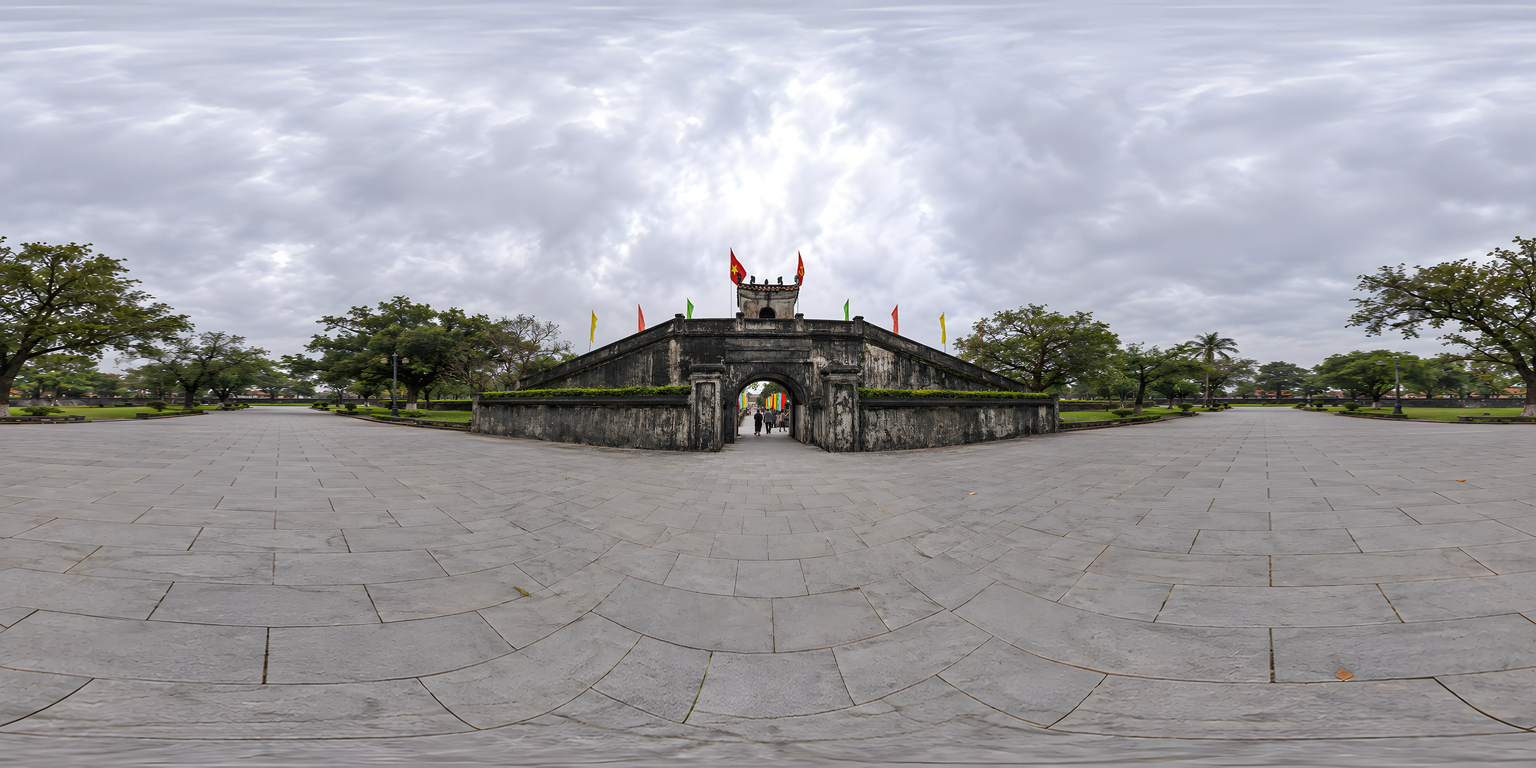
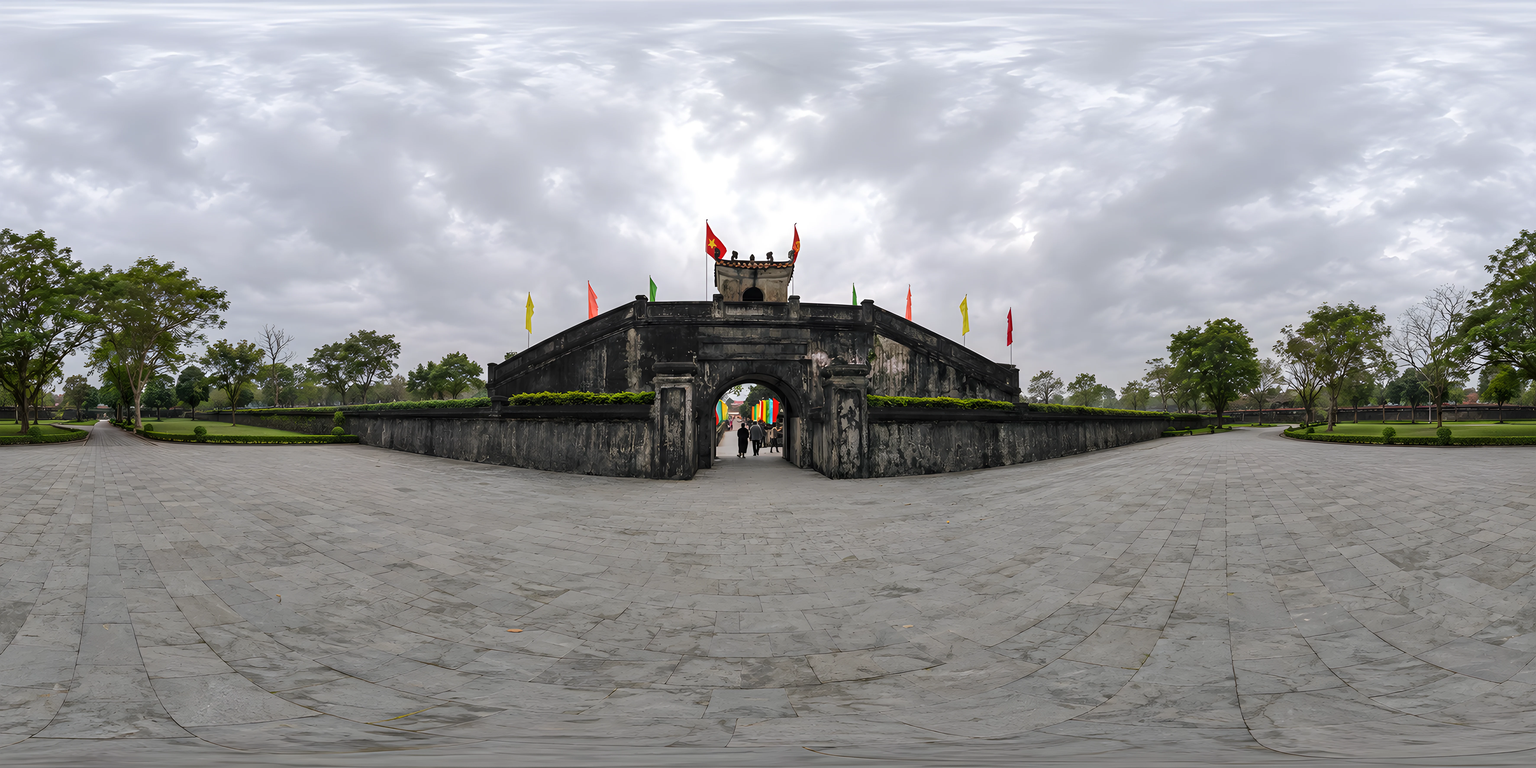
Restore previous present-day gate panorama

diff --git a/src/derived-scenes.ts b/src/derived-scenes.ts
@@ -1,8 +1,8 @@
 import { photographs, type TourScene } from './photographs';
 
 const specifications = [
-  { source: 'citadel-gate-2018', title: 'Cổng Thành cổ', pitch: 5 },
-  { source: 'citadel-wall-2018', title: 'Dọc hào Thành cổ', pitch: -12 },
+  { source: 'citadel-gate-2018', title: 'Cổng Thành cổ', pitch: 10, assetVersion: '20260925-restored' },
+  { source: 'citadel-wall-2018', title: 'Dọc hào Thành cổ', pitch: -12, assetVersion: '20260925' },
 ];
 
 export const derivedScenes: TourScene[] = specifications.map(specification => {
@@ -23,7 +23,7 @@ export const derivedScenes: TourScene[] = specifications.map(specification => {
     sourceIds: [],
     panorama: `scenes/${id}.webp`,
     thumbnail: `scenes/${id}-thumb.webp`,
-    assetVersion: '20260925',
+    assetVersion: specification.assetVersion,
     initialYaw: 0,
     initialPitch: specification.pitch,
     hotspots: [],

diff --git a/public/scenes/ATTRIBUTION.md b/public/scenes/ATTRIBUTION.md
@@ -8,8 +8,8 @@ This notice applies only to the two active panoramas listed below and their `-th
 - Based on a photograph by Phương Huy, 19/02/2018.
 - Source: [source record](https://commons.wikimedia.org/wiki/File:Th%C3%A0nh_c%E1%BB%95_Qu%E1%BA%A3ng_Tr%E1%BB%8B_(C%E1%BB%95ng_th%C3%A0nh),_T%E1%BA%BFt_n%C4%83m_2018_(44).jpg); [unaltered photograph](../photographs/citadel-gate-2018.jpg).
 - Source and derivative license: [CC BY-SA 4.0](https://creativecommons.org/licenses/by-sa/4.0).
-- Changes: Spherical reconstruction and outpainting from the credited photograph. Rebuilt on 25 September 2026 with horizontal and vertical projection adjustment and a repaired rear seam, followed by Real-ESRGAN x4plus enlargement and WebP encoding. This is an illustrated expansion, not a measured 3D model. Thumbnail is a resized perspective view rendered in the spherical viewer.
[1 lines of base64/hex data omitted]
+- Changes: Spherical reconstruction and outpainting from the credited photograph. Followed by Real-ESRGAN x4plus enlargement and WebP encoding. Thumbnail is a resized perspective view rendered in the spherical viewer.
[1 lines of base64/hex data omitted]
 
 ## citadel-wall-2018-360
 
